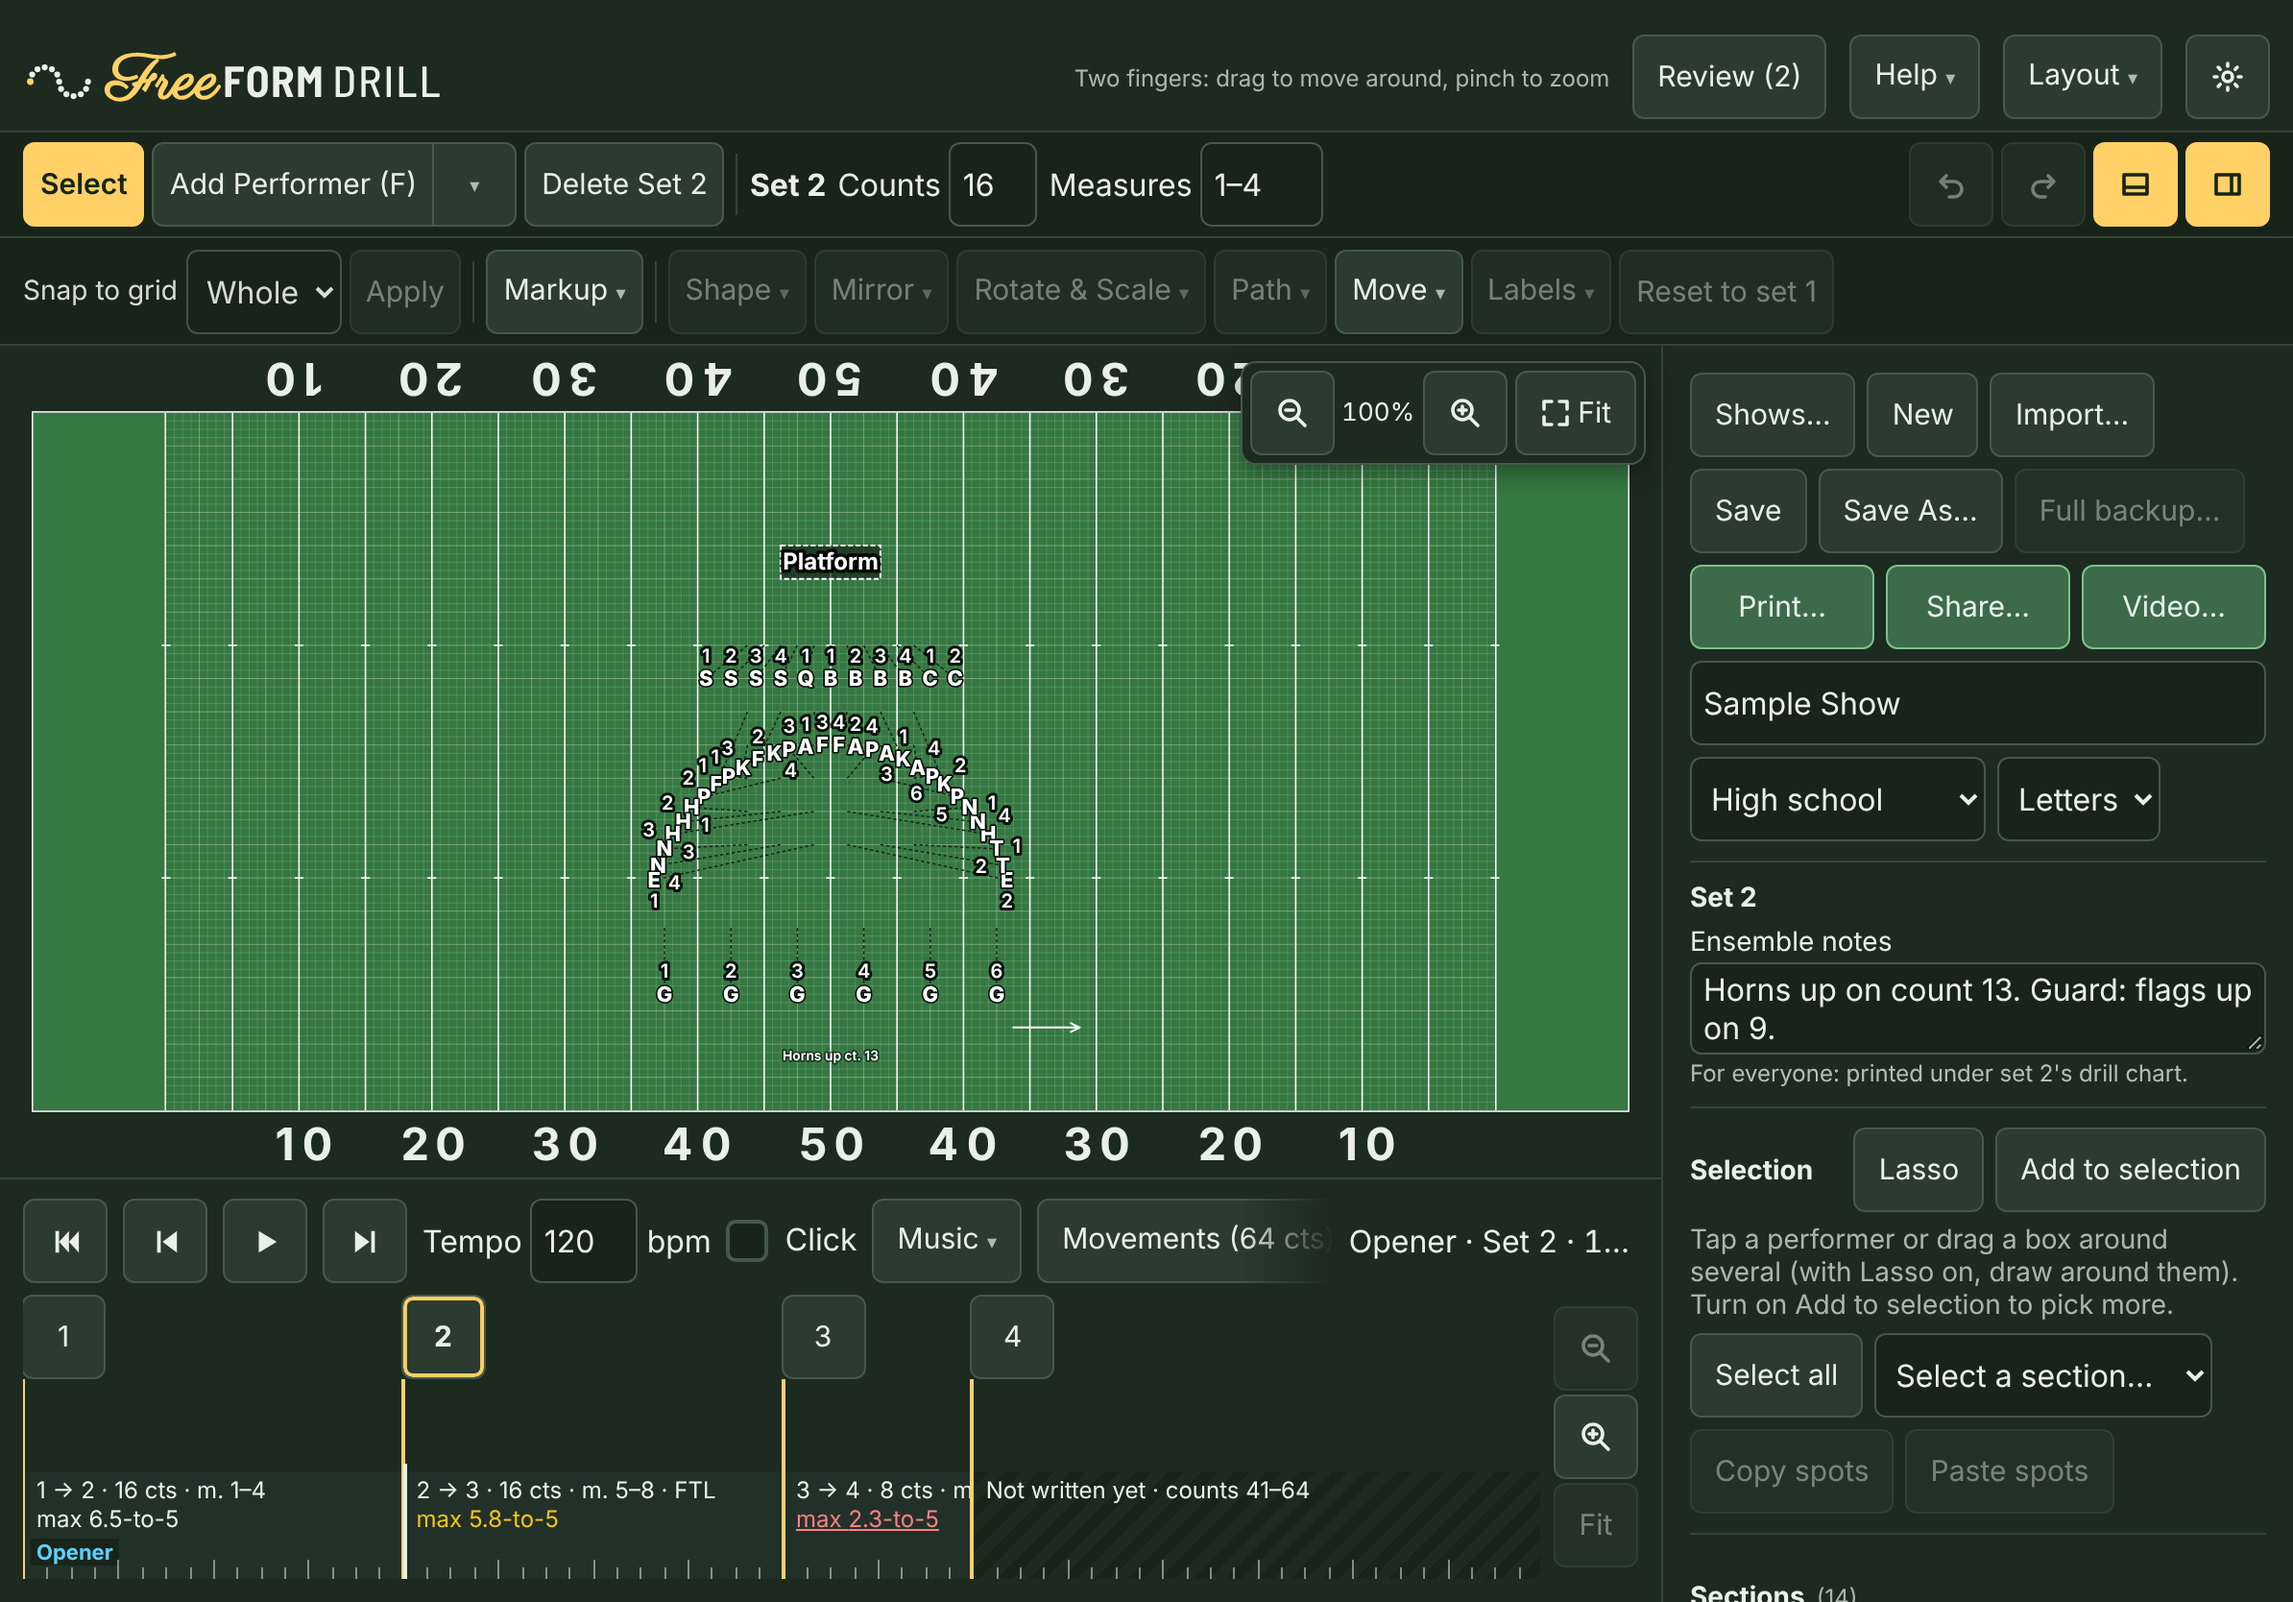
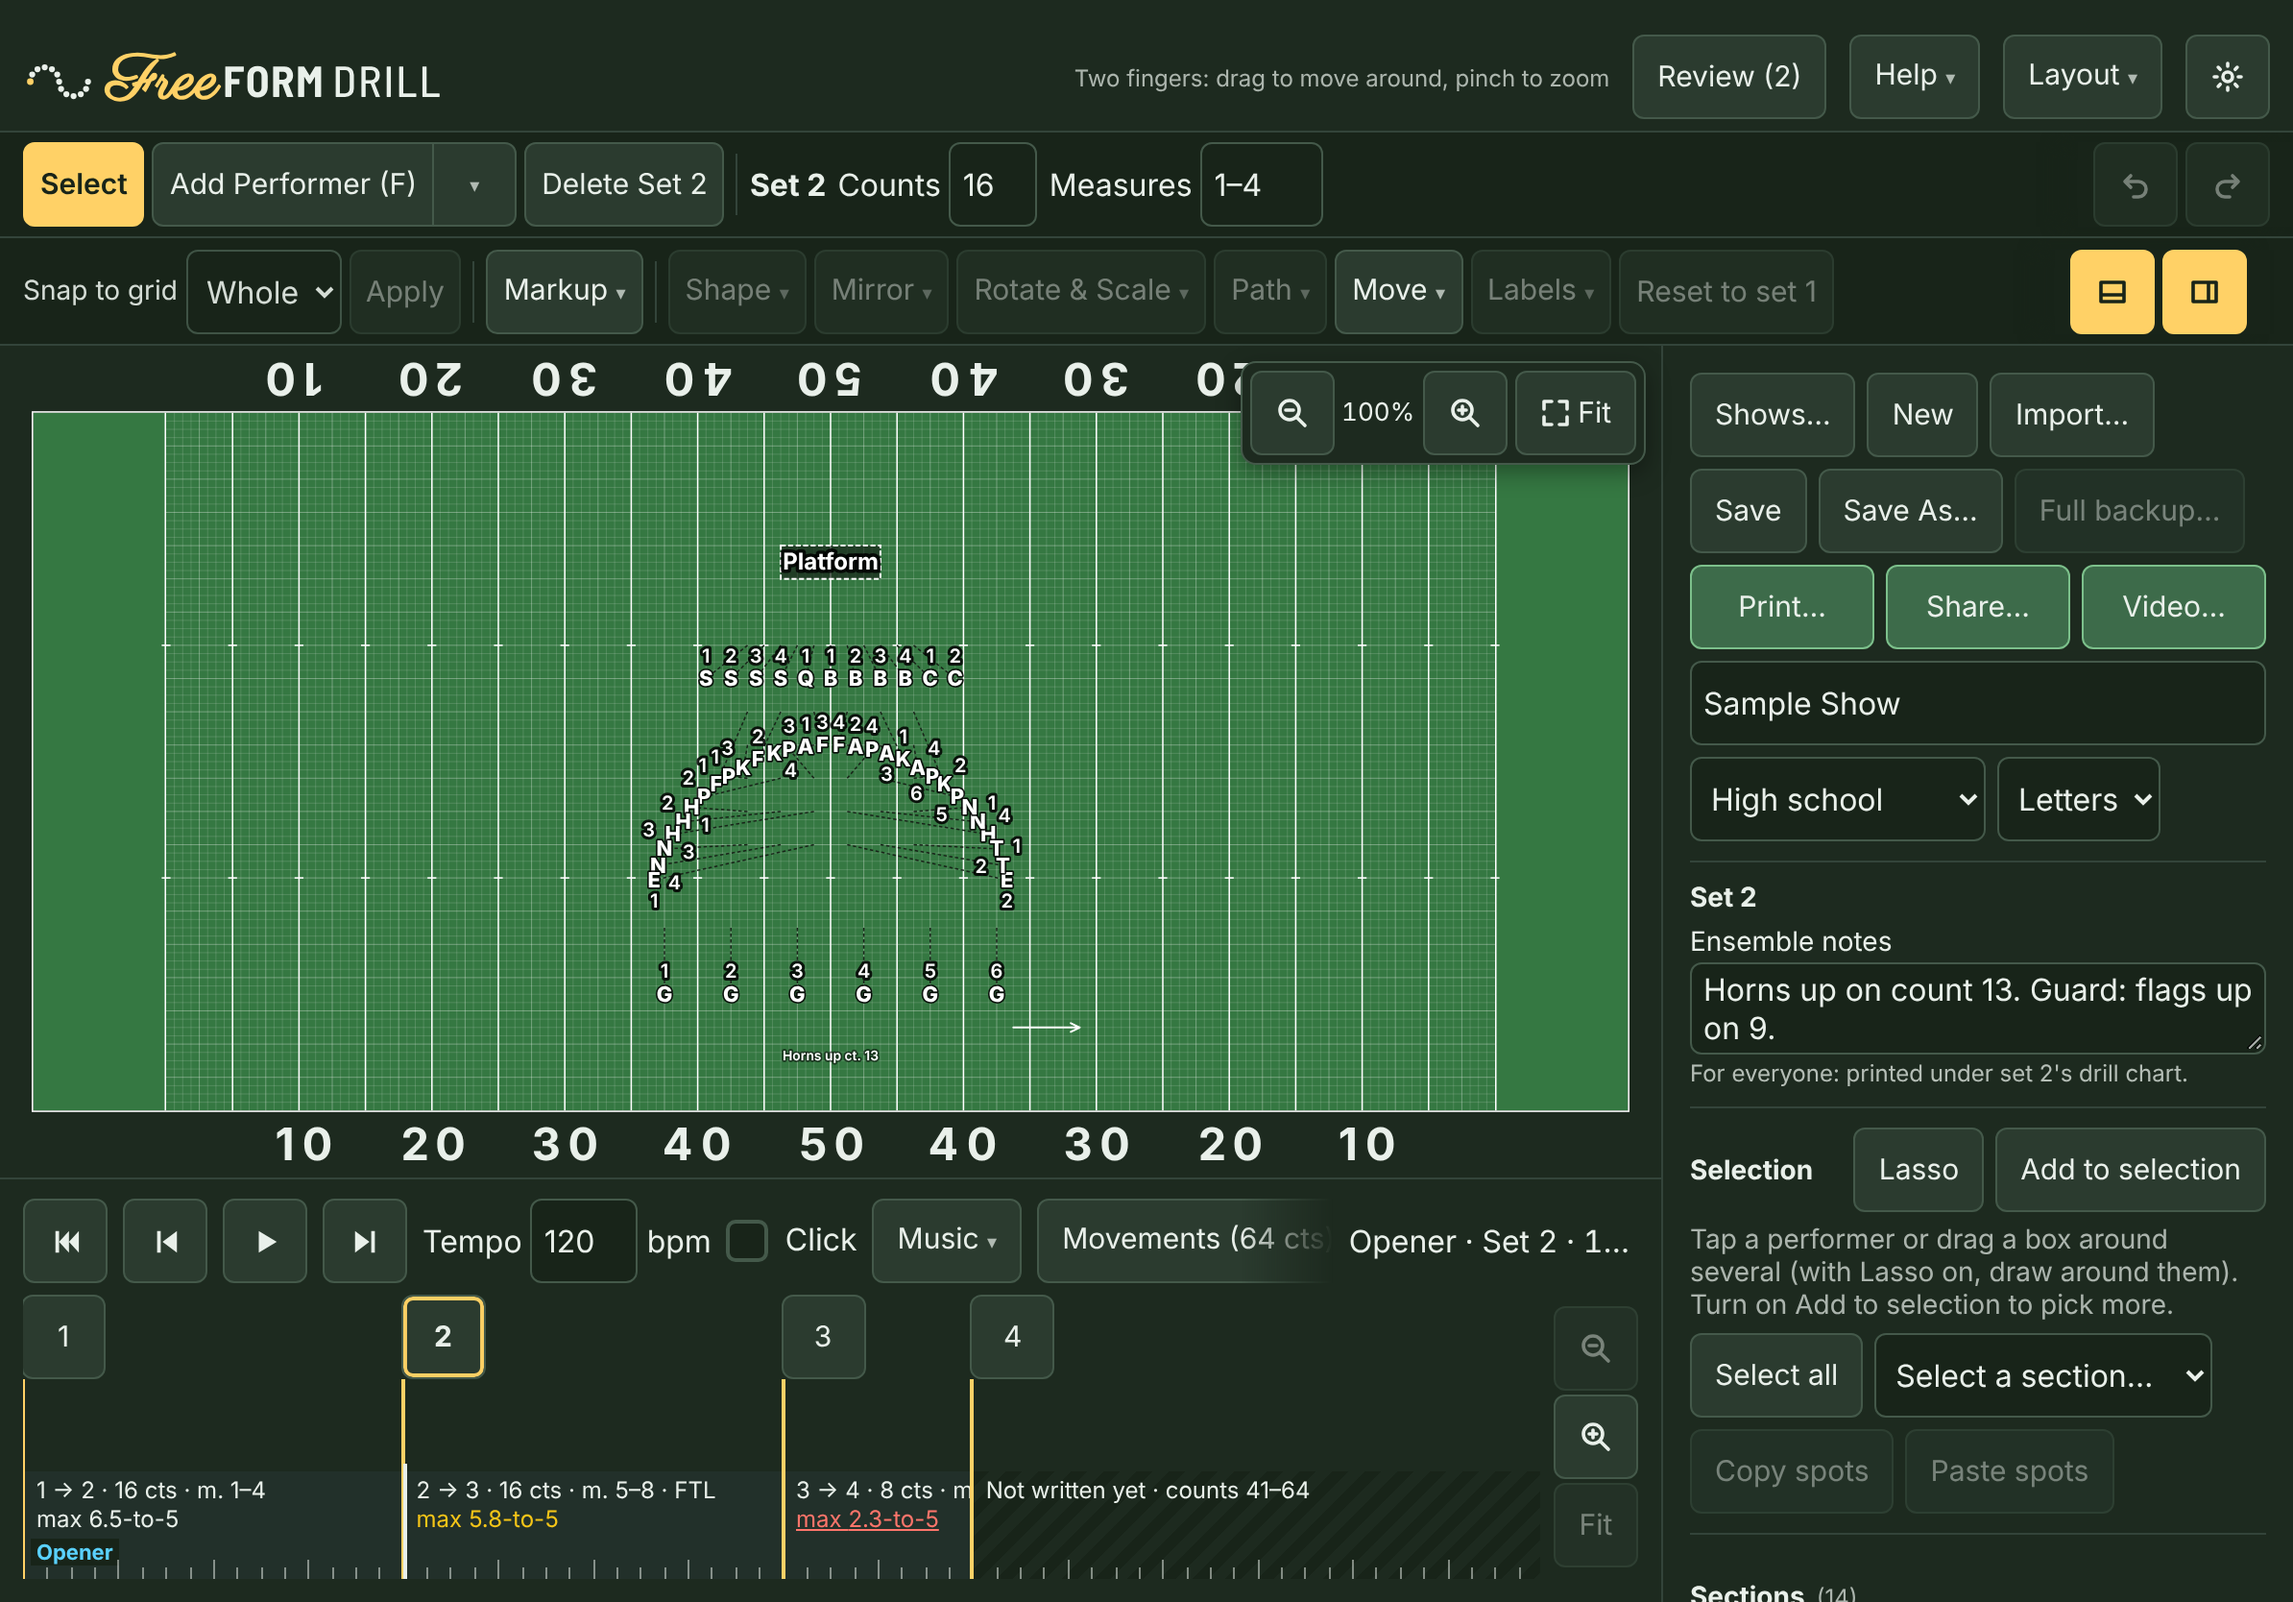
Timeline and sidebar buttons move to the tools row
The show/hide buttons for the timeline and sidebar move from the top
row (next to Undo/Redo) to the right end of the second row, pinned
there so they stay in reach if the row scrolls. On touch screens up to
1100 px, "Snap to grid" and "Rotate & Scale" shorten to "Snap" and
"Rotate" so the row still fits an iPad mini on its side. Guide,
decision log, and screenshots updated.

Claude-Session: https://claude.ai/code/session_012ak5ZRr7ss71pTXTjzJEfV

Changed region(s): [[0.8987, 0.0624, 0.9916, 0.2182]]

diff --git a/src/ui/Toolbar.tsx b/src/ui/Toolbar.tsx
@@ -122,12 +122,10 @@ export function Toolbar(p: ToolbarProps) {
       <span className="tb-pinned">
       <button onClick={p.onUndo} disabled={!p.canUndo} title="Undo (⌘Z / Ctrl+Z)" aria-label="Undo" className="icon"><IconUndo /></button>
       <button onClick={p.onRedo} disabled={!p.canRedo} title="Redo (⇧⌘Z / Ctrl+Y)" aria-label="Redo" className="icon"><IconRedo /></button>
-      {p.timeline && <button onClick={p.timeline.toggle} aria-pressed={p.timeline.open} aria-label="Timeline" title={p.timeline.open ? 'Hide the timeline (more room for the field)' : 'Show the timeline (play, tempo, music, sets)'} className="icon">{p.timeline.top ? <IconTimelineTop /> : <IconTimeline />}</button>}
-      {p.sidebar && <button onClick={p.sidebar.toggle} aria-pressed={p.sidebar.open} aria-label="Sidebar" title={p.sidebar.open ? 'Hide the sidebar' : 'Show the sidebar (show, set notes, selection, sections, roster)'} className="icon">{p.sidebar.left ? <IconSidebarLeft /> : <IconSidebar />}</button>}
       </span>
     </div>
     <div className="toolbar" role="toolbar" aria-label="Placement and movement">
-      <label className="tb-field" title="Snap to grid: the grid performers stick to as you drag or add them">Snap<span className="tb-long"> to grid</span>
+      <label className="tb-field" title="Snap to grid: the grid performers stick to as you drag or add them">Snap<span className="tb-long-md"> to grid</span>
         <select value={p.snap} onChange={(e) => p.setSnap(Number(e.target.value) as Snap)}>
           <option value={1}>Whole</option>
           <option value={0.5}>Half</option>
@@ -162,7 +160,7 @@ export function Toolbar(p: ToolbarProps) {
         </>}
       </Menu>
       {/* On a narrow iPad the label shortens to "Rotate"; the name stays "Rotate & Scale" for screen readers. */}
-      <Menu label={<>Rotate<span className="tb-long"> &amp; Scale</span></>} name="Rotate & Scale" disabled={needs(many, ids.length === 1 ? 'Select 2 or more performers' : pick)}
+      <Menu label={<>Rotate<span className="tb-long-md"> &amp; Scale</span></>} name="Rotate & Scale" disabled={needs(many, ids.length === 1 ? 'Select 2 or more performers' : pick)}
         title="Rotate the selection by a number of degrees, or expand or contract it">
         {() => <>
           <label style={{ fontSize: 12 }}>Around{' '}
@@ -214,6 +212,11 @@ export function Toolbar(p: ToolbarProps) {
         title={onSet > 0 ? `Put the selected performers back where they were in set ${show.sets[onSet - 1].name} (Undo reverses it)` : onSet === 0 ? 'Set 1 has no set before it' : pick} aria-label={`Reset to set ${onSet > 0 ? show.sets[onSet - 1].name : '…'}`}>
         Reset<span className="tb-long-sm"> to set {onSet > 0 ? show.sets[onSet - 1].name : '…'}</span>
       </button>
+      {/* Show and hide the panels: pinned to the right end of this row, like Undo above. */}
+      {(p.timeline || p.sidebar) && <span className="tb-pinned">
+      {p.timeline && <button onClick={p.timeline.toggle} aria-pressed={p.timeline.open} aria-label="Timeline" title={p.timeline.open ? 'Hide the timeline (more room for the field)' : 'Show the timeline (play, tempo, music, sets)'} className="icon">{p.timeline.top ? <IconTimelineTop /> : <IconTimeline />}</button>}
+      {p.sidebar && <button onClick={p.sidebar.toggle} aria-pressed={p.sidebar.open} aria-label="Sidebar" title={p.sidebar.open ? 'Hide the sidebar' : 'Show the sidebar (show, set notes, selection, sections, roster)'} className="icon">{p.sidebar.left ? <IconSidebarLeft /> : <IconSidebar />}</button>}
+      </span>}
     </div>
     </>
   );

diff --git a/app/index.html b/app/index.html
@@ -64,7 +64,8 @@
       .toolbar { display: flex; align-items: center; gap: 4px; height: 44px; box-sizing: border-box; flex-shrink: 0; padding: 0 0 0 12px; white-space: nowrap; overflow-x: auto; scrollbar-width: none;
         border-top: 1px solid var(--line); border-bottom: 1px solid var(--line); background: var(--bg-deep); position: relative; z-index: 5; }
       .toolbar + .toolbar { border-top: none; padding-right: 12px; } /* the second toolbar row */
-      @media (pointer: coarse) and (max-width: 820px) { .tb-long { display: none; } } /* "Snap to grid" → "Snap": the row fits an upright iPad mini */
+      @media (pointer: coarse) and (max-width: 820px) { .tb-long { display: none; } }
+      @media (pointer: coarse) and (max-width: 1100px) { .tb-long-md { display: none; } } /* "Snap to grid" → "Snap", "Rotate & Scale" → "Rotate": the tools row fits an iPad mini on its side */ /* "Snap to grid" → "Snap": the row fits an upright iPad mini */
       /* Narrower still (an open iPhone Duo, 669 px): Select / Add / Delete, "Reset", no "FreeFORM" title, snugger padding.
          Buttons stay 44 px tall, and screen readers still hear the full names. */
       @media (pointer: coarse) and (max-width: 700px) { .tb-long-sm { display: none !important; } .toolbar button { padding-left: 6px; padding-right: 6px; } }

diff --git a/docs/HOW-TO.md b/docs/HOW-TO.md
@@ -51,7 +51,7 @@ One thing to know up front: **your shows are saved in the browser you're using.*
 From top to bottom:
 
 - **The top bar** has the logo, a reminder of how to move around the field, **Help** (the **How-to guide**, which opens this guide in a new tab at freeformdrill.org/guide/, **Try the sample show**, **Send feedback**, a short form to report a problem or suggest something (it goes straight to me, with no account needed), **Support FreeFORM**, a tip jar on Ko-fi (FreeFORM is free either way), and **About FreeFORM Drill**, the front page), **Layout** (**Sidebar on the left** or right, and **Timeline at the top** or bottom; this browser remembers your choice), and at the far right the sun/moon button, which switches between dark mode and light mode. Until you click it, FreeFORM follows your computer's or iPad's own light or dark setting. The field looks the same either way.
-- **The drill toolbar** has two rows. The first row has **Select**, **Add** (performers, a set, or a prop), and **Delete**, then the set you're on with its **Counts** and **Measures**. At the right end are Undo, Redo, the timeline button, and the sidebar button. The second row has the tools for placing and moving performers: **Snap to grid**, **Markup**, **Shape**, **Mirror**, **Rotate & Scale**, **Path**, **Move**, **Labels**, and **Reset to set**.
+- **The drill toolbar** has two rows. The first row has **Select**, **Add** (performers, a set, or a prop), and **Delete**, then the set you're on with its **Counts** and **Measures**. At the right end are Undo and Redo. The second row has the tools for placing and moving performers: **Snap to grid**, **Markup**, **Shape**, **Mirror**, **Rotate & Scale**, **Path**, **Move**, **Labels**, and **Reset to set**. At its right end are the timeline button and the sidebar button.
 - **The field** is in the middle. You're looking at it from the press box: the front sideline is at the bottom and Side 1 is on the left. Scroll to move around, and pinch (or hold ⌘ or Ctrl and scroll) to zoom. The zoom buttons sit in the field's top-right corner: **−** and **+** zoom out and in, the number between them is how far you're zoomed (100% shows the whole field), and **Fit** zooms back out to the whole field.
 - **The timeline** runs across the bottom. Each set has a numbered button, and each move between sets shows its counts, measures, and biggest step size.
 - **The sidebar** on the right (or the left, under **Layout**) holds the show's file buttons (including **Shows…**, the list of every show in this browser), then **Print…** and **Share…** on a row of their own, the title, and hash marks; the current set's notes; whatever you have selected; and the **Sections** and **Roster** lists. The sidebar button (at the right end of the toolbar) shows and hides it.
@@ -505,7 +505,7 @@ The editor works on an iPad the same way it does on a computer, with a few touch
 - Turn on **Add to selection** to build up a selection without a Shift key.
 - On the timeline, tap a set to go to it and swipe to scroll. To move a set to a new count, touch and hold its button until it lifts, then drag. That way a swipe can't move a set by accident.
 - On an iPad held upright, the sidebar starts hidden. The sidebar button opens it over the side of the field it sits on.
-- For more room while you write drill, hide the timeline, the sidebar, or both. The timeline button (a window with a bar along the bottom, or along the top if you moved the timeline there) and the sidebar button (a window with a bar on the right, or on the left) are at the right end of the toolbar, and each one shows and hides its panel. The field grows to fill the space and zooms back out to fit. You can still change sets with the arrows at the top, and the keyboard shortcuts still work.
+- For more room while you write drill, hide the timeline, the sidebar, or both. The timeline button (a window with a bar along the bottom, or along the top if you moved the timeline there) and the sidebar button (a window with a bar on the right, or on the left) are at the right end of the toolbar's second row, and each one shows and hides its panel. The field grows to fill the space and zooms back out to fit. You can still change sets with the arrows at the top, and the keyboard shortcuts still work.
 
 With a keyboard attached, the [keyboard shortcuts](#keyboard-shortcuts) work too.
 

diff --git a/DECISIONS.md b/DECISIONS.md
@@ -1520,3 +1520,9 @@ Each entry: timestamp, who decided, context, options considered, decision.
 - **Options:** a color-blind mode (a setting); make sure color is never the only signal, everywhere; both.
 - **Decision:** No mode. Color is never the only signal (a house rule in CLAUDE.md), checked by a test. An audit found the app already does this: too-big steps on the field are solid and thicker, the timeline's are underlined and clickable, Review's warnings have names, every dot has its letter, and printing is black on white. On the phone, the step size's color goes with its plain words ("very big step size"). Jason decided against adding "over the limit" there: performers don't know the limit, so the words are enough.
 - **Color changes (Claude's call; Jason can veto):** simulating color blindness showed light mode's error red (#b3261e) and warning brown (#7a5200) looking almost the same (ΔE 5), and dark mode's error and "done" green close (ΔE 10). The error color is now coral red #ff756b in dark mode (was #ff8080) and crimson #bd1c3a in light mode (was #b3261e): the closest pairs are now about 15 apart, and the colors still read as red. A pure red can't stay clearly apart (20+) from both green and yellow for every kind of color blindness without turning pink, so the words do that job. `palette.test.ts` checks the pairs (12 on panels, 20 for field paths) in both modes.
+
+## 2026-11-11: Panel buttons on the tools row
+- **Who:** Jason Tiller
+- **Context:** The timeline and sidebar show/hide buttons sat at the right end of the top toolbar row, next to Undo and Redo.
+- **Decision:** They move to the right end of the second row (Snap to grid, Markup, Shape, and the rest), pinned there like Undo is on the first row, so they stay in reach if the row ever scrolls sideways. Undo and Redo stay on the first row.
+- **Claude's call (Jason can veto):** with the two buttons added, the tools row no longer fit an iPad mini on its side (1090 px of buttons in 1024). On touch screens up to 1100 px wide, **Snap to grid** reads **Snap** and **Rotate & Scale** reads **Rotate** (they already did on an upright iPad mini), so the row fits again. **Add Performer** keeps its full name there.
